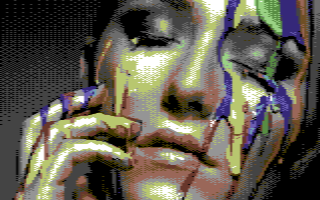
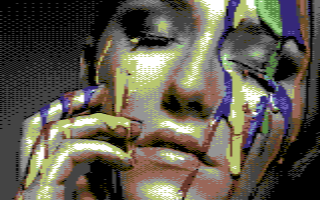
Ready for release 0.4.0

diff --git a/index.js b/index.js
@@ -20,7 +20,7 @@ let graphicMode = GraphicModes.all['c64Multicolor'];
 let ditherMode = 'bayer4x4';
 let ditherRadius = 32;
 
-cli.version('0.3.1')
+cli.version('0.4.0')
     .usage('[options] <infile> <outfile>')
     .option('-m, --mode <graphicMode>', 'c64Multicolor (default), c64Hires, c64HiresMono, c64FLI, c64AFLI')
     .option('-d, --ditherMode <ditherMode>', 'bayer2x2, bayer4x4 (default), bayer8x8')

diff --git a/README.md b/README.md
@@ -29,9 +29,9 @@ With
 
 - ``<infile>``: the image to convert
 - ``<outfile>``: the converted image. The extension determines the format:
-    - ``<outfile>.png`` produces a PNG file.
-    - ``<outfile>.kla`` produces a Koala Painter file (only supported for c64Multicolor mode)
-    - ``<outfile>.prg`` produces a Commodore 64 executable (only supported for c64Multicolor mode)
+  - ``<outfile>.png`` produces a PNG file
+  - ``<outfile>.kla`` produces a Koala Painter file (only supported for c64Multicolor mode)
+  - ``<outfile>.prg`` produces a Commodore 64 executable (only supported for modes c64Multicolor and c64FLI)
 - ``[options]``:
   - ``-m <mode>`` with ``<mode>``:
     - ``c64Multicolor`` (default)
@@ -43,7 +43,7 @@ With
       - ``bayer2x2``
       - ``bayer4x4`` (default)
       - ``bayer8x8``
-  - ``-r <ditherRadius>`` with ``ditherRadius``:
+  - ``-r <ditherRadius>`` with ``<ditherRadius>``:
       - A number between 0 (no dithering) and 64 (heavy dithering). Default is 32.
 
 ### Example
@@ -111,9 +111,10 @@ Be patient. Next time it will get it from your local cache.
 
 ## Changelog
 
-### 0.3.1
+### 0.4.0
 
-Internal refactoring.
+- Export FLI executable.
+- Internal refactoring.
 
 ### 0.3.0
 
